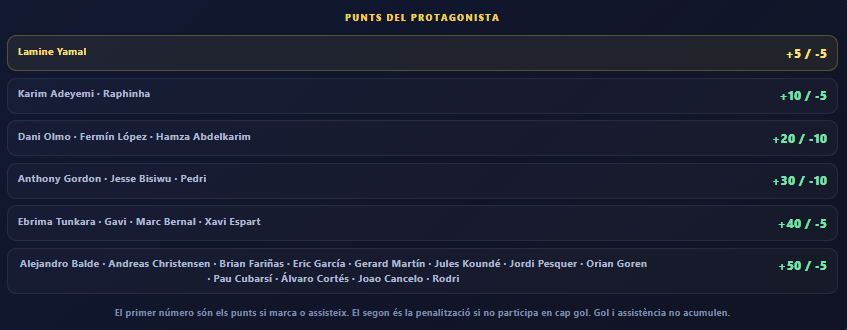
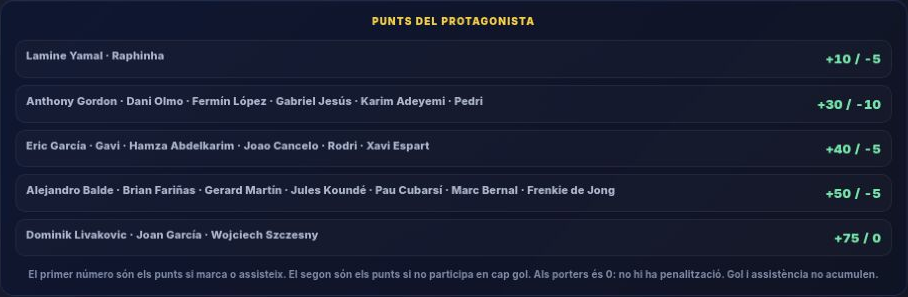
Actualitza Com jugar amb regles i captures vigents

diff --git a/src/content/instruccions.html b/src/content/instruccions.html
@@ -556,20 +556,24 @@
         <div class="vlp-stack">
           <figure class="vlp-figure">
             <img src="/instruccions/imatges/03-punts-resultat.png" alt="Taula de puntuació del pronòstic del resultat">
-            <figcaption>1. Puntuació del resultat. Consulta sempre la icona d’informació del partit per veure les regles vigents; la captura pot correspondre a una versió anterior.</figcaption>
+            <figcaption>1. Puntuació del resultat. Els encerts especials de +75, +40, +35 i +30 no sumen parcials.</figcaption>
           </figure>
           <figure class="vlp-figure">
             <img src="/instruccions/imatges/04-punts-lotto-flick.png" alt="Taula de puntuació de la Lotto Flick">
-            <figcaption>2. Puntuació de la Lotto Flick.</figcaption>
+            <figcaption>2. Puntuació de la Lotto Flick. Encertar 0 dels 11 titulars també té premi: +60.</figcaption>
           </figure>
           <figure class="vlp-figure">
             <img src="/instruccions/imatges/05-punts-protagonista.png" alt="Taula de puntuació del protagonista">
-            <figcaption>3. Puntuació del protagonista. La cotització d’un gol o una assistència no és fixa: pot variar segons l’estat de forma i el rol del jugador.</figcaption>
+            <figcaption>3. Puntuació del protagonista del partit seleccionat. La cotització de cada jugador es mostra abans d’enviar la porra; els porters poden valer +75/0.</figcaption>
           </figure>
         </div>
 
         <div class="vlp-callout">
-          <p><strong>Resultat (regles vigents des del partit contra el Levante):</strong> marcador exacte +75; a un gol del marcador +40; diferència de gols exacta +30; gols del Barça exactes +20; signe encertat +15; gols del rival exactes +10; total de gols exacte +10. Els encerts parcials no s’acumulen tots entre si: preval la combinació que correspongui. Els partits anteriors conserven la puntuació amb què es van jugar.</p>
+          <p><strong>Resultat (regles vigents des del partit contra el Levante):</strong> marcador exacte +75; a un gol del marcador exacte amb el signe correcte +40; encertar una derrota del Barça +35; diferència de gols exacta amb el signe correcte +30. Aquests quatre premis no sumen parcials. En la resta de casos sí que es poden acumular: gols del Barça +20, signe +15, gols del rival +10 i total de gols +10. Les jornades anteriors conserven la puntuació original.</p>
+        </div>
+
+        <div class="vlp-callout">
+          <p><strong>Partit doble:</strong> si un partit porta l’avís «PUNTS x2», tant els punts positius com els negatius de resultat, XI i protagonista es multipliquen per dos. Gol i assistència del mateix protagonista no s’acumulen.</p>
         </div>
 
         <p class="vlp-quote">Pim, pam, pum. Bocadillo de atún.</p>
@@ -580,16 +584,16 @@
           <span class="vlp-number">04</span>
           <div>
             <h2>Del partit a la classificació general</h2>
-            <p>El rànquing té dues lectures: què ha passat en una jornada concreta i com va la batalla acumulada.</p>
+            <p>Consulta la General, una Jornada concreta o la pestanya de Porra nova abans que es jugui el partit.</p>
           </div>
         </div>
 
         <div class="vlp-stack">
           <div class="vlp-card vlp-ranking-card">
             <div class="vlp-ranking-copy">
-              <span class="vlp-mini-label">Pestanya 1</span>
+              <span class="vlp-mini-label">Pestanya 2</span>
               <h3>Jornada</h3>
-              <p class="vlp-muted">Mostra la classificació del partit seleccionat. Primer compten els punts totals. Si hi ha empat: punts del resultat, de l’onze i del protagonista, en aquest ordre; després, l’hora de l’últim enviament o rectificació (abans és millor).</p>
+              <p class="vlp-muted">Mostra la classificació del partit seleccionat. Primer compten els punts totals. Si hi ha empat: més punts de resultat, d’XI i de protagonista, en aquest ordre; després, l’hora de l’última porra guardada (abans és millor) i, finalment, l’antiguitat del compte. Només hi ha una primera posició.</p>
             </div>
             <figure class="vlp-figure">
               <img src="/instruccions/imatges/06-ranking-jornada.png" alt="Classificació de la jornada a Vesalaporra">
@@ -598,14 +602,23 @@
 
           <div class="vlp-card vlp-ranking-card">
             <div class="vlp-ranking-copy">
-              <span class="vlp-mini-label">Pestanya 2</span>
+              <span class="vlp-mini-label">Pestanya 1</span>
               <h3>General</h3>
-              <p class="vlp-muted">I, per sorpresa de nadie, és la classificació general: la suma dels punts de les jornades oficials. Si hi ha empat a punts, compten les jornades guanyades i després el nombre total de medalles. Només quan també empata el nombre de medalles s’aplica la jerarquia de medalles. Si encara persisteix l’empat: punts de resultat, d’onze i de protagonista; partits participats i antiguitat del compte. Les fletxes indiquen els canvis de posició.</p>
+              <p class="vlp-muted">I, per sorpresa de nadie, és la classificació general: la suma dels punts de les jornades oficials. Si hi ha empat a punts, compten les jornades guanyades i després el nombre total de medalles, incloses les repeticions xN. Només quan també empata el nombre de medalles s’aplica la jerarquia de medalles: Temporada, Hivern, Pretemporada, Jornada, Nostradamus, Llegeix Flick, Yoyalodije, Candidat, Kamikaze i Xop xop Salinas. Si encara persisteix l’empat: punts de resultat, d’XI i de protagonista; nombre de porres participades i antiguitat del compte. Les fletxes indiquen els canvis de posició.</p>
             </div>
             <figure class="vlp-figure">
               <img src="/instruccions/imatges/07-ranking-general.png" alt="Classificació general de Vesalaporra">
             </figure>
           </div>
+        </div>
+
+        <div class="vlp-card" style="margin-top:18px;">
+          <span class="vlp-mini-label">Pestanya 3 · Porra nova</span>
+          <h3>Qui ja ha fet la pròxima porra?</h3>
+          <p class="vlp-muted">Segueix la participació del partit pendent abans que hi hagi punts. Des del botó «Lligues privades» del Rànquing també pots entrar a les classificacions de la teva colla.</p>
+        </div>
+        <div class="vlp-callout">
+          <p>La classificació general només mostra els comptes que continuen participant: després de cinc partits oficials consecutius sense porra, el compte deixa d’aparèixer fins que torna a confirmar-ne una.</p>
         </div>
       </section>
 
@@ -627,7 +640,7 @@
           <span class="vlp-number">06</span>
           <div>
             <h2>El perfil: rendiment, glòria i memòria</h2>
-            <p>Pots entrar al teu perfil des del menú. Allà també trobaràs les teves lligues privades i l’accés a «Les meves notes». Per tafanejar el perfil d’un altre porrero, clica directament el seu avatar.</p>
+            <p>Pots entrar al teu perfil des del menú. Allà també trobaràs les teves lligues privades i l’accés a les teves notes. Per tafanejar el perfil d’un altre porrero, clica directament el seu avatar.</p>
           </div>
         </div>
 
@@ -644,7 +657,7 @@
           <div class="vlp-card">
             <span class="vlp-mini-label">Medalles</span>
             <h3>Reptes difícils, moments de glòria</h3>
-            <p class="vlp-muted">Aquesta pestanya té molt de suc. Si completes determinats reptes, guanyes medalles associades al teu avatar. Algunes es poden repetir i mostren el nombre de vegades aconseguides. La medalla «Guanyador de la jornada» s’aconsegueix amb una victòria. <strong>Candidat:</strong> acaba 4 jornades dins del Top 10 de la classificació general; no cal que siguin consecutives.</p>
+            <p class="vlp-muted">Si completes determinats reptes, guanyes medalles associades al teu avatar. Algunes es poden repetir i mostren quantes vegades les has aconseguit. «Guanyador de la jornada» s’aconsegueix amb una victòria; «Nostradamus», amb 3 marcadors exactes; «Llegeix Flick», amb 3 onzes exactes; «Yoyalodije», amb 4 protagonistes encertats; «Candidat», amb 4 jornades dins del Top 10 general. També hi ha «Kamikaze» (un 0-0 o una derrota exacta) i «Xop xop Salinas» (0/11 a l’XI).</p>
             <figure class="vlp-figure">
               <img src="/instruccions/imatges/09-medalles.png" alt="Reptes i medalles disponibles a Vesalaporra">
             </figure>
@@ -666,12 +679,12 @@
           <span class="vlp-number">07</span>
           <div>
             <h2>Les notes: jutge per un dia</h2>
-            <p>Aquesta secció no puntua. És pur divertimento i una manera de seguir de prop els nostres gladiadors.</p>
+            <p>Aquesta secció no suma punts a la porra. Les notes de la jornada són cegues mentre es vota; un cop tancades es mostren les mitjanes i els vots. També hi ha les notes de temporada i les teves valoracions.</p>
           </div>
         </div>
 
         <div class="vlp-callout" style="margin:0 0 20px;">
-          <p>Puntua cada jugador <strong>d’1 a 6 estrelles</strong> segons el partit que, per a tu, hagi fet.</p>
+          <p>Puntua cada jugador <strong>d’1 a 6 estrelles</strong> segons el partit que, per a tu, hagi fet. La mitjana pública es presenta sobre 10.</p>
         </div>
 
         <div class="vlp-grid-2">
@@ -695,7 +708,7 @@
         <div class="vlp-card" style="margin-top:20px;">
           <span class="vlp-mini-label">Les meves notes</span>
           <h3>El teu historial de valoracions</h3>
-          <p class="vlp-muted">Consulta les notes que has posat als jugadors al llarg de la temporada.</p>
+          <p class="vlp-muted">Consulta les notes que has posat als jugadors al llarg de la temporada. Si obres el perfil d’un altre culer, la pestanya mostra «Les seves notes» quan són públiques.</p>
         </div>
       </section>
 
